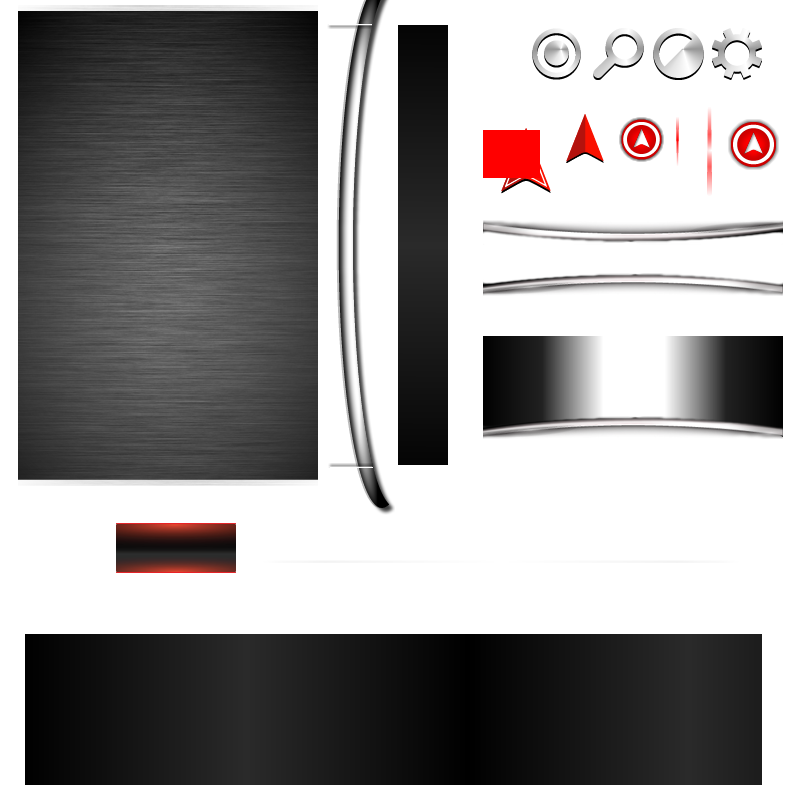
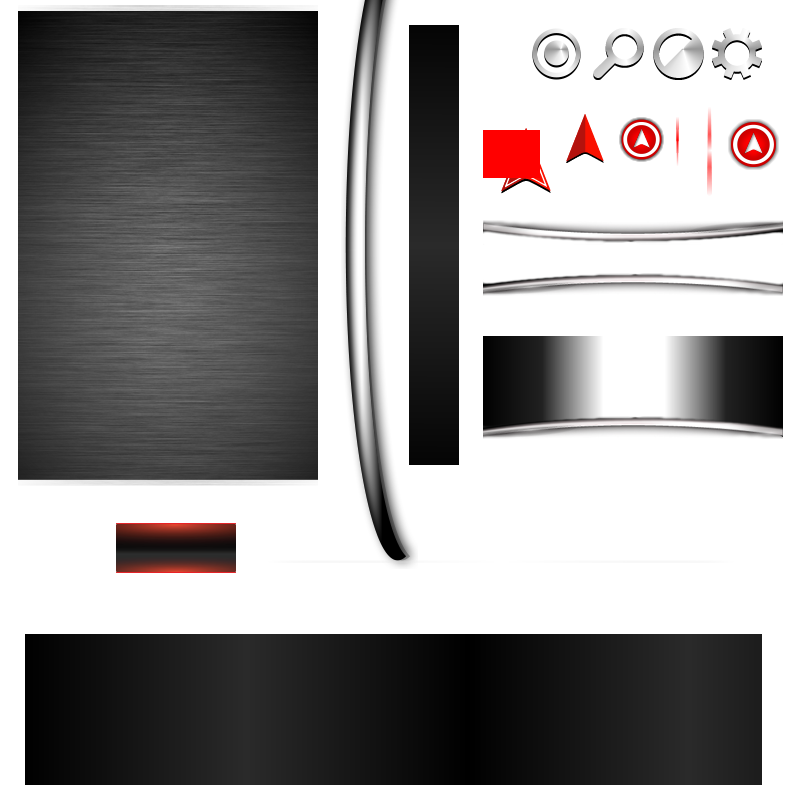
Changed menu layout

Changed region(s): [[0.4062, 0.0, 0.5312, 0.7188], [0.5625, 0.0312, 0.5938, 0.5938], [0.9375, 0.1562, 0.9688, 0.1875]]

diff --git a/src/system/css/NavCtrl.css b/src/system/css/NavCtrl.css
@@ -56,12 +56,13 @@
   }
 
   .NavCtrl .mapMenu {
-    position:absolute;
-    left: 270px;
-    top: 20px;
-    bottom: 20px;
-    right: 600px;
-    opacity: 0;
+    position:absolute;;
+    top: 0px;  
+    bottom: 0px;
+    right:0px;
+  }
+
+  .NavCtrl .mapMenu.closed {
     -o-animation-name: menuOpenSlideOut;
     -o-animation-duration: 0.5s;
     -o-animation-timing-function: ease-out;
@@ -77,27 +78,27 @@
     animation-timing-function: ease-out;
     animation-direction: forward;
     animation-iteration-count: 1;
+    left:850px
   }
 
    @-o-keyframes menuOpenSlideOut {
-      0% { right: 40px; opacity: 1;}
-      100% {right: 600px; opacity: 0}
+      0% { left: 350px;}
+      100% {left: 850px;}
     }
     @-webkit-keyframes menuOpenSlideOut {
-      0% { right: 40px; opacity: 1}
-      100% {right: 600px; opacity: 0}    
+      0% { left: 350px;}
+      100% {left: 850px;}
     }
     @keyframes menuOpenSlideOut {
-      0% { right: 40px;opacity: 1}
-      100% {right: 600px; opacity: 0}
+      0% { left: 350px;}
+      100% {left: 850px;}
     }
     @keyframes menuOpenSlideOut {
-      0% { right: 40px;opacity: 1}
-      100% {right: 600px; opacity: 0}
+      0% { left: 350px;}
+      100% {left: 850px;}
     }
 
     .NavCtrl .mapMenu.open {
-      display: block;
       -o-animation-name: menuOpenSlideIn;
       -o-animation-duration: 0.5s;
       -o-animation-timing-function: ease-in;
@@ -113,25 +114,24 @@
       animation-timing-function: ease-in;
       animation-direction: forward;
       animation-iteration-count: 1;
-      right:40px;
-      opacity: 1;
+      left:350px;
     }
 
     @-o-keyframes menuOpenSlideIn {
-      0% { right: 600px; opacity:0;}
-      100% {right: 40px; opacity:1;}
+      0% { left: 850px;}
+      100% {left: 350px;}
     }
     @-webkit-keyframes menuOpenSlideIn {
-      0% { right: 600px;opacity:0;}
-      100% {right: 40px;opacity:1;}    
+     0% { left: 850px;}
+      100% {left: 350px;}
     }
     @keyframes menuOpenSlideIn {
-      0% { right: 600px;opacity:0;}
-      100% {right: 40px;opacity:1;}
+     0% { left: 850px;}
+      100% {left: 350px;}
     }
     @keyframes menuOpenSlideIn {
-      0% { right: 600px;opacity:0;}
-      100% {right: 40px;opacity:1;}
+     0% { left: 850px;}
+      100% {left: 350px;}
     }
 
     .NavCtrl .mapMenu .menuContainer {
@@ -139,25 +139,24 @@
       background:url(../images/menu-background.png) repeat-x left top #000;
       box-shadow:#000 0px 0px 2em;
       padding-top:20px;
-      height:420px;
+      height:460px;
       /*border-top:1px solid rgba(255, 255, 255, 0.4);
       border-bottom:1px solid rgba(255, 255, 255, 0.4);*/
     }
 
 
-      .NavCtrl .mapMenu .menuContainer .rightArc {
+      .NavCtrl .mapMenu .menuContainer .arc {
         background:url(../images/arc-menu.png) no-repeat right top;
         position:absolute;
         top:-1px;
-        right:-25px;
+        left:-35px;
         bottom:0;
-        width:50px;
+        width:60px;
         z-index:1;
       }
 
       .NavCtrl .mapMenu .menuContainer .menuListInner {
-        height:420px;
-        width:100%;
+        height:440px;
         overflow:hidden;
       }
 
@@ -171,7 +170,7 @@
           white-space: nowrap;
           font-size:1.5em;
           text-shadow:#000 0px 2px 1px;
-          background:url(../images/menu-item-divider.png) no-repeat 30px bottom;
+          background:url(../images/menu-item-divider.png) no-repeat 20px bottom;
         }
 
           .NavCtrl .mapMenu .menuContainer .menuList .menuItem span {

diff --git a/src/system/js/NavCtrl.js b/src/system/js/NavCtrl.js
@@ -362,7 +362,7 @@ NavCtrl.prototype = {
         this.controlMenu.appendChild(this.menuContainer);
 
         var arc = document.createElement("div");
-        arc.classList.add("rightArc");
+        arc.classList.add("arc");
         this.menuContainer.appendChild(arc);
 
         var inner = document.createElement("div");
@@ -488,7 +488,6 @@ NavCtrl.prototype = {
 
         // finalize
         this.hasUI = true;
-
         this.showMenu(true);
     },
 
@@ -522,10 +521,12 @@ NavCtrl.prototype = {
 
     showMenu: function(open) {
         if(open) {
+            this.controlMenu.classList.remove("closed");
             this.controlMenu.classList.add("open");
             this.selectMenuItem(0);
         } else {
             this.controlMenu.classList.remove("open");
+            this.controlMenu.classList.add("closed");
         }
 
         this.isMenuOpen = open;
@@ -570,7 +571,6 @@ NavCtrl.prototype = {
         if(p % itemHeight > 0) p = p - (p % itemHeight) + itemHeight;
 
         // check
-        console.log(posHeight, visibleHeight, posHeight - visibleHeight);
         this.menuList.style.top = (-1 * (posHeight > visibleHeight ? p : 0)) + "px";
     },
 
